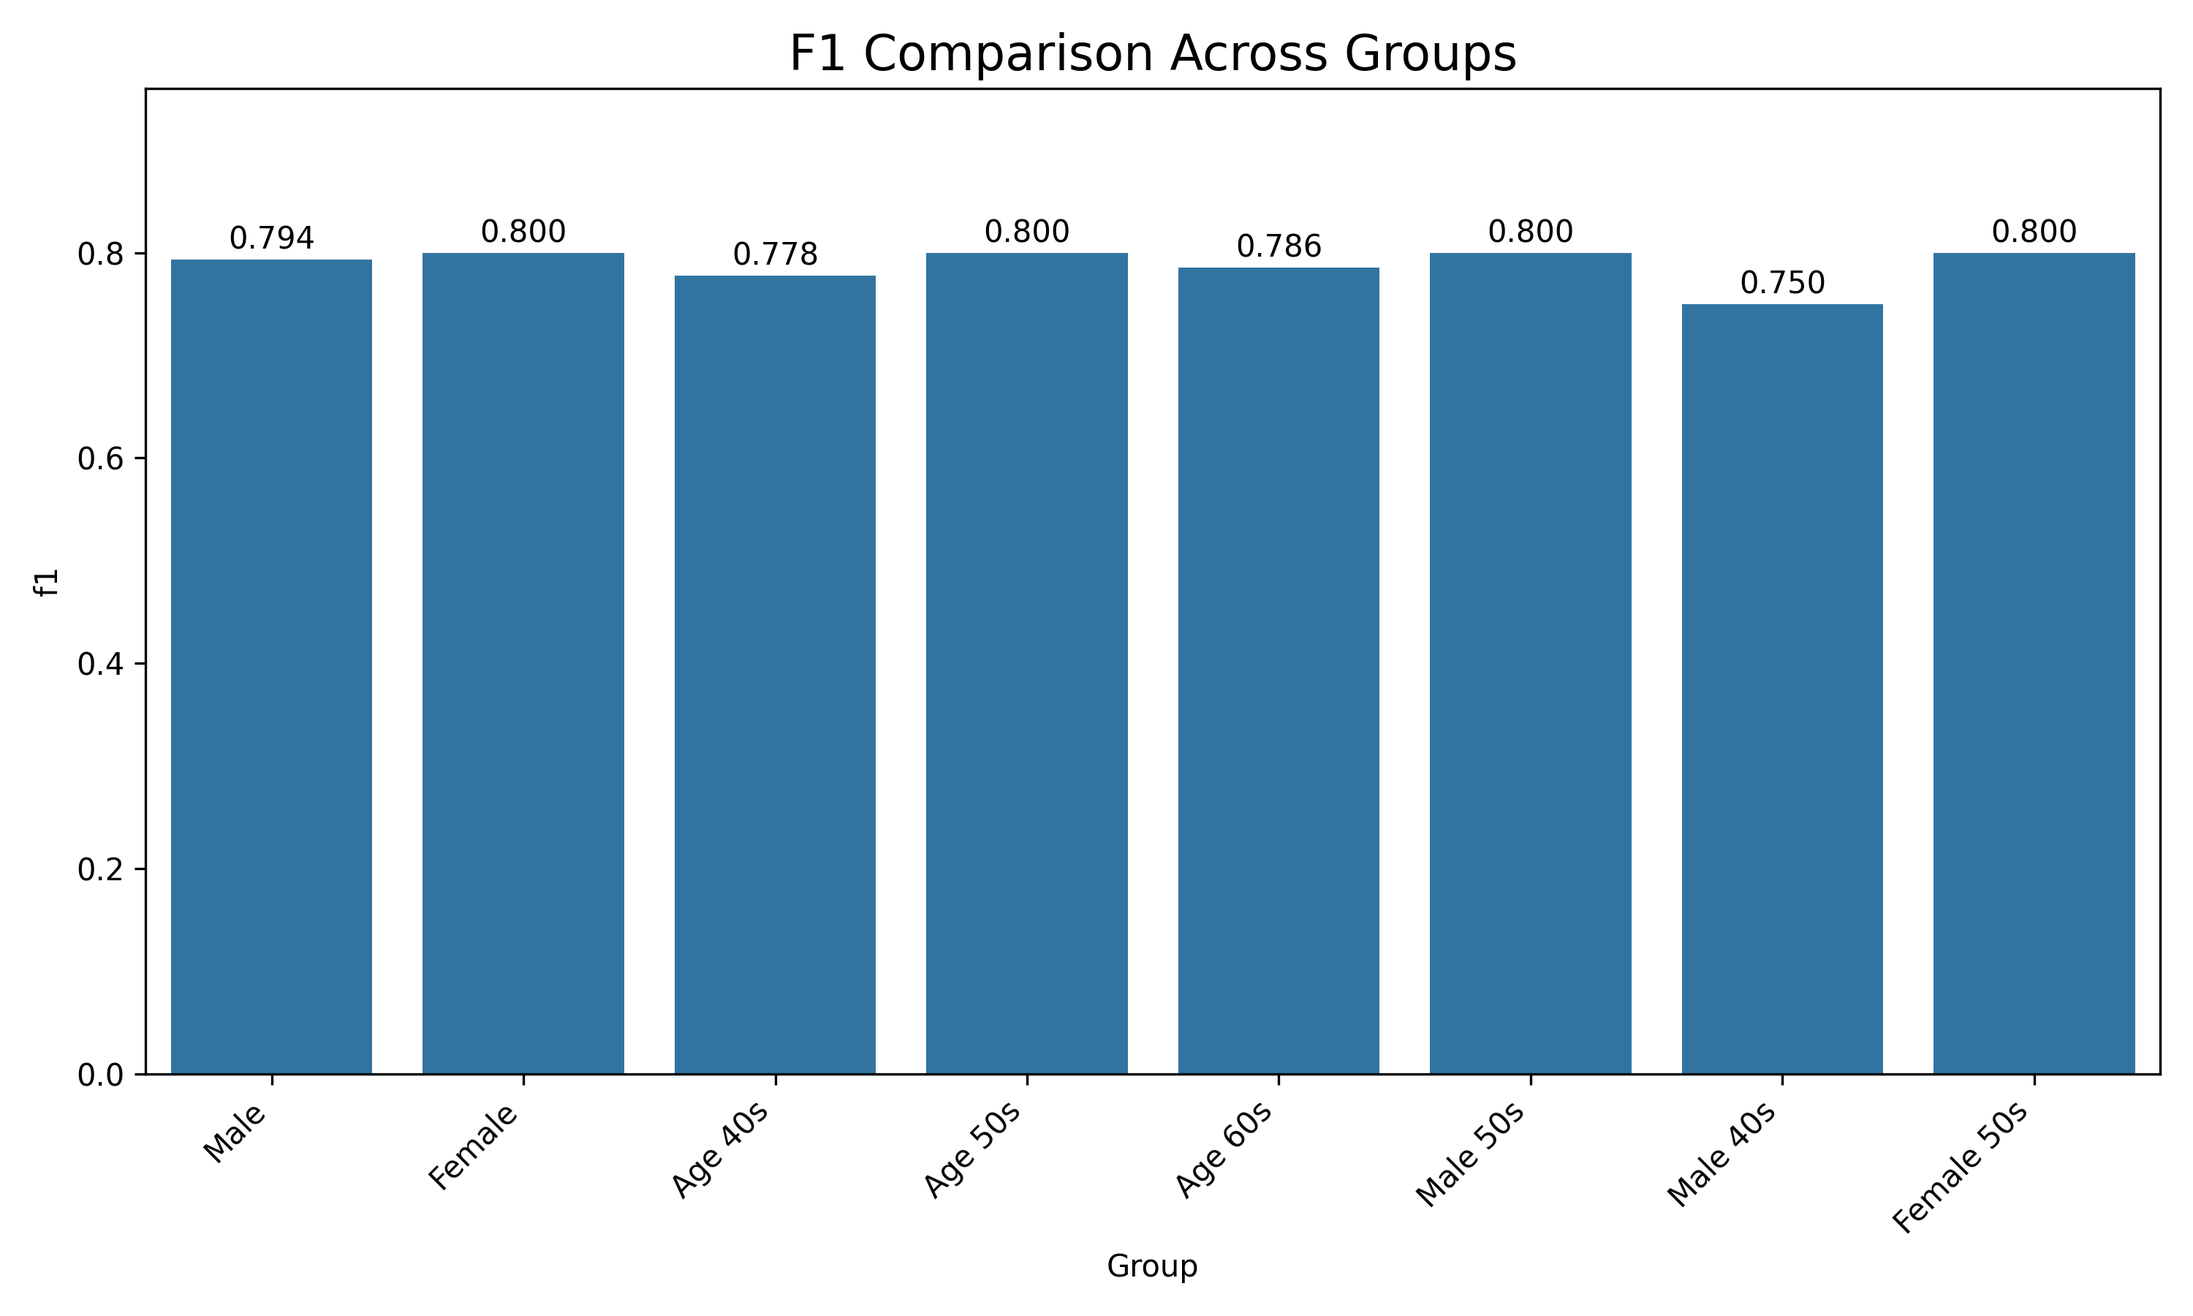
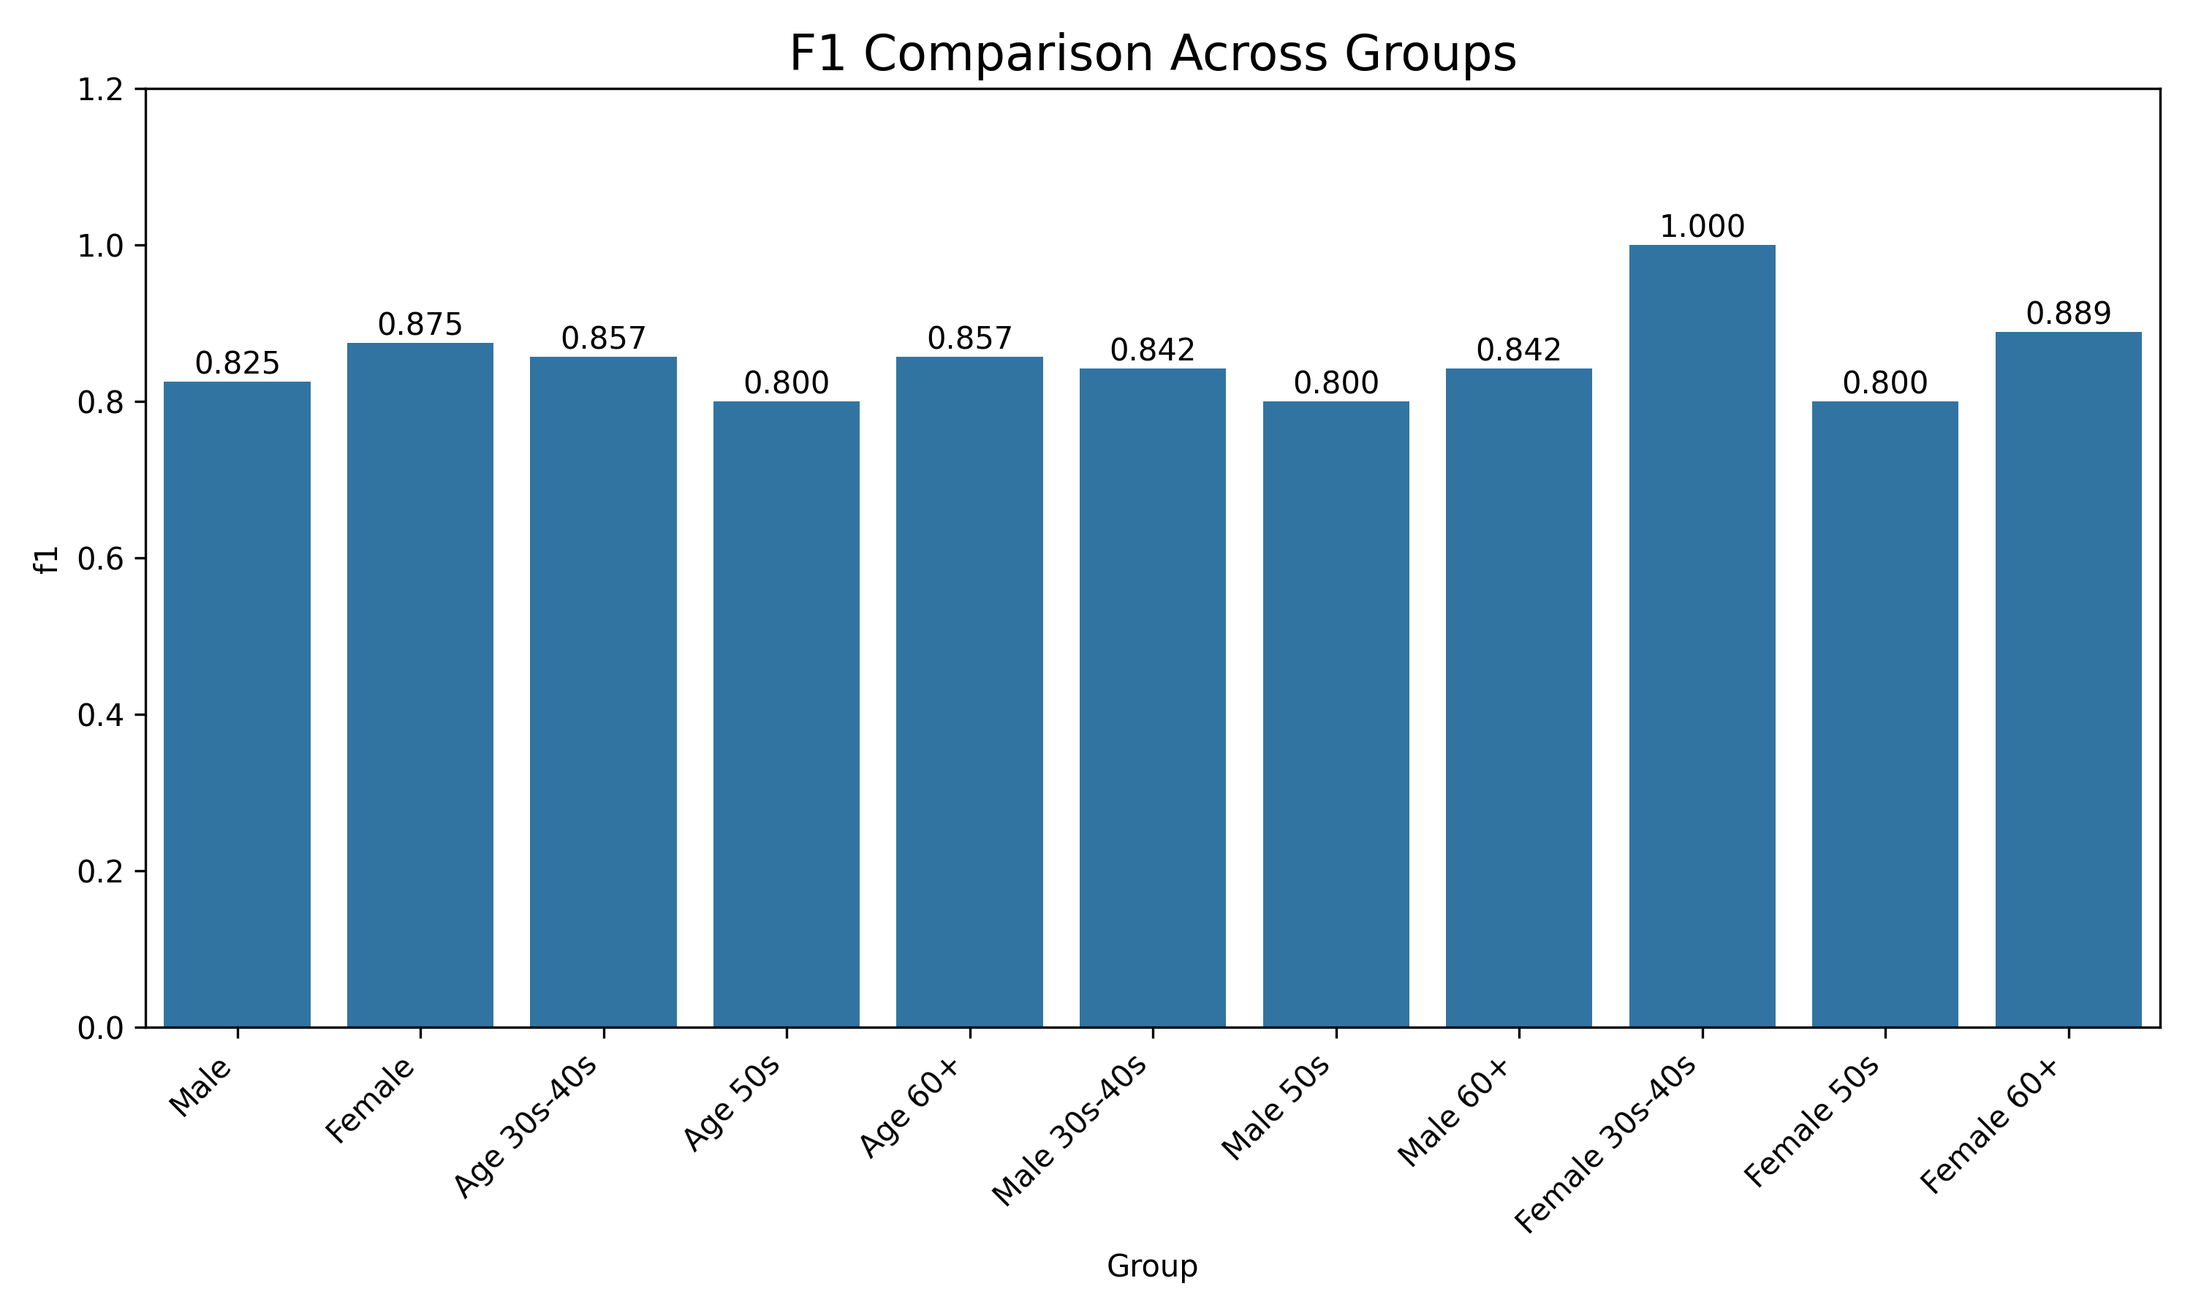
Add cross validation and change the age bins

diff --git a/part2/mitigation1.py b/part2/mitigation1.py
@@ -1,3 +1,4 @@
+# update2 with cv and metri for overfitting
 import pandas as pd
 import matplotlib.pyplot as plt
 import seaborn as sns
@@ -7,9 +8,6 @@ import numpy as np
 import matplotlib.pyplot as plt
 import seaborn as sns
 import matplotlib as mpl
-
-from sklearn.model_selection import train_test_split, cross_val_score, KFold, StratifiedKFold
-from sklearn.metrics import accuracy_score, precision_score, recall_score, f1_score, roc_auc_score, make_scorer
 
 df = pd.read_csv('./dataset/heart_disease_uci.csv')
 
@@ -60,8 +58,8 @@ print("\nNumerical features:", numerical_features)
 print("Categorical features:", categorical_features)
 
 # Set up the age groups
-df['Age Group'] = pd.cut(df['Age'], bins=[29, 50, 60, 100], 
-                        labels=["30s-40s", "50s", "60+"])
+df['Age Group'] = pd.cut(df['Age'], bins=[29, 40, 50, 60, 70, 100], 
+                        labels=["30s", "40s", "50s", "60s", "70+"])
 
 # Create gender-age intersectional groups
 df['Gender_Age_Group'] = df['Sex'].astype(str) + "_" + df['Age Group'].astype(str)
@@ -76,8 +74,58 @@ print(df['Age Group'].value_counts())
 print("\nIntersectional group distribution:")
 print(df['Gender_Age_Group'].value_counts())
 
+# Create age groups and intersectional groups
+df['Age Group'] = pd.cut(df['Age'], bins=[29, 40, 50, 60, 70, 100], 
+                        labels=["30s", "40s", "50s", "60s", "70+"])
+df['Gender_Age_Group'] = df['Sex'].astype(str) + "_" + df['Age Group'].astype(str)
+
+# Print the counts to see what we're working with
+print("\nGender distribution:")
+print(df['Sex'].value_counts())
+
+print("\nAge group distribution:")
+print(df['Age Group'].value_counts())
+
+print("\nIntersectional group distribution:")
+print(df['Gender_Age_Group'].value_counts())
+
 from sklearn.linear_model import LogisticRegression
 from sklearn.preprocessing import StandardScaler
+from sklearn.utils import resample
+
+def bootstrap_metric(y_true, y_pred, metric_func, n_iterations=1000):
+    """Calculate 95% confidence intervals for a metric using bootstrapping"""
+    # Handle cases with very small sample sizes
+    if len(y_true) < 10:
+        return None, None  # Not enough data for reliable bootstrap
+    
+    scores = []
+    for i in range(n_iterations):
+        # Resample with replacement
+        indices = resample(range(len(y_true)), n_samples=len(y_true))
+        
+        # Extract bootstrapped samples
+        if hasattr(y_true, 'iloc'):  # If pandas Series
+            y_true_bootstrap = y_true.iloc[indices]
+        else:  # If numpy array
+            y_true_bootstrap = [y_true[i] for i in indices]
+            
+        y_pred_bootstrap = [y_pred[i] for i in indices]
+        
+        # Calculate metric, handling potential errors
+        try:
+            score = metric_func(y_true_bootstrap, y_pred_bootstrap)
+            scores.append(score)
+        except:
+            continue
+    
+    if len(scores) < 100:  # Need enough successful iterations
+        return None, None
+        
+    # Calculate 95% confidence interval
+    lower = np.percentile(scores, 2.5)
+    upper = np.percentile(scores, 97.5)
+    return lower, upper
 
 def analyze_coefficients_for_subgroup(df, subgroup_name, subgroup_condition):
     """
@@ -139,21 +187,28 @@ female_coeffs = analyze_coefficients_for_subgroup(df, "Female", female_condition
 # Analyze by age groups
 print("\n===== Age-based Coefficient Analysis =====")
 age_coeffs = {}
-for age_group in ["30s-40s", "50s", "60+"]:  # Focus on groups with more samples
+for age_group in ["40s", "50s", "60s"]:  # Focus on groups with more samples
     age_coeffs[age_group] = analyze_coefficients_for_subgroup(
         df, f"Age {age_group}", df['Age Group'] == age_group
     )
 
 # Adjust intersectional group definitions based on what we find
-intersectional_groups = [
-    ("Male 30s-40s", (male_condition) & (df['Age Group'] == "30s-40s")),
-    ("Male 50s", (male_condition) & (df['Age Group'] == "50s")),
-    ("Male 60+", (male_condition) & (df['Age Group'] == "60+")),
-    ("Female 30s-40s", (female_condition) & (df['Age Group'] == "30s-40s")),
-    ("Female 50s", (female_condition) & (df['Age Group'] == "50s")),
-    ("Female 60+", (female_condition) & (df['Age Group'] == "60+"))
+# intersectional_groups = [
+#     ("Male 50s", (male_condition) & (df['Age Group'] == "50s")),
+#     ("Male 40s", (male_condition) & (df['Age Group'] == "40s")),
+#     ("Female 50s", (female_condition) & (df['Age Group'] == "50s"))
+# ]
 
+intersectional_groups = [
+    ("Male 50s", (male_condition) & (df['Age Group'] == "50s")),
+    ("Male 40s", (male_condition) & (df['Age Group'] == "40s")),
+    ("Female 50s", (female_condition) & (df['Age Group'] == "50s")),
+    ("Female 40s", (female_condition) & (df['Age Group'] == "40s")),
+    ("Male 60+", (male_condition) & (df['Age Group'].isin(["60s", "70+"]))),  # Male 60+ group
+    ("Female 60+", (female_condition) & (df['Age Group'].isin(["60s", "70+"])))  # Female 60+ group
 ]
+
+
 
 # Verify the group sizes
 for name, condition in intersectional_groups:
@@ -217,7 +272,7 @@ def visualize_coefficient_comparison(group1_name, group1_coeffs, group2_name, gr
     
     # Save the figure
     plt.savefig(f'coefficient_comparison_{group1_name}_{group2_name}.png', dpi=300)
-    # plt.show()
+    plt.show()
     
     return comparison_df
 
@@ -226,7 +281,7 @@ def visualize_coefficient_comparison(group1_name, group1_coeffs, group2_name, gr
 visualize_coefficient_comparison("Male", male_coeffs, "Female", female_coeffs)
 
 # 2. Age comparison (40s vs 60s)
-visualize_coefficient_comparison("Age 40s", age_coeffs["30s-40s"], "Age 60s", age_coeffs["60+"])
+visualize_coefficient_comparison("Age 40s", age_coeffs["40s"], "Age 60s", age_coeffs["60s"])
 
 # 3. Intersectional comparison (Male 50s vs Female 50s)
 visualize_coefficient_comparison("Male 50s", intersect_coeffs["Male 50s"], 
@@ -238,13 +293,6 @@ visualize_coefficient_comparison("Male 50s", intersect_coeffs["Male 50s"],
 # Import necessary libraries for model evaluation
 from sklearn.model_selection import train_test_split
 from sklearn.metrics import accuracy_score, precision_score, recall_score, f1_score, roc_auc_score
-
-# ------------------------------------- SINGLE MODEL WITH CROSS-VALIDATION --------------------------------------------------------------------------------
-
-# Import necessary libraries for model evaluation and cross-validation
-from sklearn.model_selection import train_test_split, cross_val_score, KFold, StratifiedKFold
-from sklearn.metrics import accuracy_score, precision_score, recall_score, f1_score, roc_auc_score, make_scorer
-from sklearn.model_selection import GridSearchCV
 
 # Prepare data for modeling
 X = df.drop(['Diagnosis', 'Age Group', 'Gender_Age_Group'], axis=1)
@@ -259,62 +307,16 @@ scaler = StandardScaler()
 X_train_scaled = scaler.fit_transform(X_train)
 X_test_scaled = scaler.transform(X_test)
 
-# Set up cross-validation
-cv = StratifiedKFold(n_splits=5, shuffle=True, random_state=42)  # Using stratified k-fold to maintain class balance
-
-# Define model
+# Train a logistic regression model on the full training data
+print("\n===== Training Model on Full Dataset =====")
 model = LogisticRegression(C=1.0, solver='liblinear', random_state=42)
-
-# Perform cross-validation and get scores
-print("\n===== Cross-Validation Results =====")
-cv_accuracy = cross_val_score(model, X_train_scaled, y_train, cv=cv, scoring='accuracy')
-cv_precision = cross_val_score(model, X_train_scaled, y_train, cv=cv, scoring='precision')
-cv_recall = cross_val_score(model, X_train_scaled, y_train, cv=cv, scoring='recall')
-cv_f1 = cross_val_score(model, X_train_scaled, y_train, cv=cv, scoring='f1')
-cv_roc_auc = cross_val_score(model, X_train_scaled, y_train, cv=cv, scoring='roc_auc')
-
-print(f"Cross-validated Accuracy: {cv_accuracy.mean():.4f} (±{cv_accuracy.std():.4f})")
-print(f"Cross-validated Precision: {cv_precision.mean():.4f} (±{cv_precision.std():.4f})")
-print(f"Cross-validated Recall: {cv_recall.mean():.4f} (±{cv_recall.std():.4f})")
-print(f"Cross-validated F1 Score: {cv_f1.mean():.4f} (±{cv_f1.std():.4f})")
-print(f"Cross-validated ROC AUC: {cv_roc_auc.mean():.4f} (±{cv_roc_auc.std():.4f})")
-
-# Define parameter grid to search
-param_grid = {
-    'C': [0.01, 0.1, 1.0, 5.0, 10.0],
-    'penalty': ['l1', 'l2'],
-    'solver': ['liblinear']  # liblinear supports both l1 and l2
-}
-
-# Set up grid search with cross-validation
-grid_search = GridSearchCV(
-    LogisticRegression(random_state=42),
-    param_grid,
-    cv=cv,
-    scoring='roc_auc',  # You can change this to 'accuracy', 'f1', etc.
-    n_jobs=-1  # Use all available cores
-)
-
-# Fit grid search
-print("\n===== Performing Hyperparameter Tuning with Cross-Validation =====")
-grid_search.fit(X_train_scaled, y_train)
-
-# Get best parameters and score
-print(f"Best parameters: {grid_search.best_params_}")
-print(f"Best cross-validation score: {grid_search.best_score_:.4f}")
-
-# Use the best model for final evaluation
-model = grid_search.best_estimator_
-
-# Train the final model on the full training data
-print("\n===== Training Final Model on Full Training Dataset =====")
 model.fit(X_train_scaled, y_train)
 
-# Evaluate overall model performance on the test set
+# Evaluate overall model performance
 y_pred = model.predict(X_test_scaled)
 y_prob = model.predict_proba(X_test_scaled)[:, 1]  # Probability of positive class
 
-print("\nFinal Model Performance on Test Set:")
+print("\nOverall Model Performance:")
 print(f"Accuracy: {accuracy_score(y_test, y_pred):.4f}")
 print(f"Precision: {precision_score(y_test, y_pred):.4f}")
 print(f"Recall: {recall_score(y_test, y_pred):.4f}")
@@ -322,10 +324,96 @@ print(f"F1 Score: {f1_score(y_test, y_pred):.4f}")
 print(f"ROC AUC: {roc_auc_score(y_test, y_prob):.4f}")
 
 # Function to evaluate model performance on a specific subgroup
+# def evaluate_subgroup_performance(subgroup_name, subgroup_condition):
+#     """Evaluate model performance on a specific demographic subgroup"""
+#     # Get indices of test set samples in this subgroup
+#     subgroup_indices = X_test[subgroup_condition].index
+    
+#     if len(subgroup_indices) < 10:
+#         print(f"Skipping {subgroup_name} due to insufficient test samples")
+#         return None
+    
+#     # Get predictions for this subgroup
+#     X_sub_test = X_test.loc[subgroup_indices]
+#     y_sub_test = y_test.loc[subgroup_indices]
+#     X_sub_test_scaled = scaler.transform(X_sub_test)
+    
+#     y_sub_pred = model.predict(X_sub_test_scaled)
+#     y_sub_prob = model.predict_proba(X_sub_test_scaled)[:, 1]
+    
+#     # Calculate performance metrics
+#     metrics = {
+#         'subgroup': subgroup_name,
+#         'size': len(subgroup_indices),
+#         'accuracy': accuracy_score(y_sub_test, y_sub_pred),
+#         'precision': precision_score(y_sub_test, y_sub_pred, zero_division=0),
+#         'recall': recall_score(y_sub_test, y_sub_pred, zero_division=0),
+#         'f1': f1_score(y_sub_test, y_sub_pred, zero_division=0)
+#     }
+    
+#     # Add ROC AUC if both classes are present
+#     if len(np.unique(y_sub_test)) > 1:
+#         metrics['roc_auc'] = roc_auc_score(y_sub_test, y_sub_prob)
+    
+#     print(f"\nPerformance for {subgroup_name} (n={metrics['size']}):")
+#     print(f"Accuracy: {metrics['accuracy']:.4f}")
+#     print(f"Precision: {metrics['precision']:.4f}")
+#     print(f"Recall: {metrics['recall']:.4f}")
+#     print(f"F1 Score: {metrics['f1']:.4f}")
+#     if 'roc_auc' in metrics:
+#         print(f"ROC AUC: {metrics['roc_auc']:.4f}")
+    
+#     return metrics
+
+# def evaluate_subgroup_performance(subgroup_name, subgroup_condition):
+#     """Evaluate model performance on a specific demographic subgroup"""
+#     # Get indices of test set samples in this subgroup
+#     subgroup_indices = X_test[subgroup_condition].index
+    
+#     print(f"Subgroup {subgroup_name} size: {len(subgroup_indices)}")  # Debug print for size
+    
+#     if len(subgroup_indices) < 10:
+#         print(f"Skipping {subgroup_name} due to insufficient test samples")
+#         return None
+    
+#     # Get predictions for this subgroup
+#     X_sub_test = X_test.loc[subgroup_indices]
+#     y_sub_test = y_test.loc[subgroup_indices]
+#     X_sub_test_scaled = scaler.transform(X_sub_test)
+    
+#     y_sub_pred = model.predict(X_sub_test_scaled)
+#     y_sub_prob = model.predict_proba(X_sub_test_scaled)[:, 1]
+    
+#     # Calculate performance metrics
+#     metrics = {
+#         'subgroup': subgroup_name,
+#         'size': len(subgroup_indices),
+#         'accuracy': accuracy_score(y_sub_test, y_sub_pred),
+#         'precision': precision_score(y_sub_test, y_sub_pred, zero_division=0),
+#         'recall': recall_score(y_sub_test, y_sub_pred, zero_division=0),
+#         'f1': f1_score(y_sub_test, y_sub_pred, zero_division=0)
+#     }
+    
+#     # Add ROC AUC if both classes are present
+#     if len(np.unique(y_sub_test)) > 1:
+#         metrics['roc_auc'] = roc_auc_score(y_sub_test, y_sub_prob)
+    
+#     print(f"\nPerformance for {subgroup_name} (n={metrics['size']}):")
+#     print(f"Accuracy: {metrics['accuracy']:.4f}")
+#     print(f"Precision: {metrics['precision']:.4f}")
+#     print(f"Recall: {metrics['recall']:.4f}")
+#     print(f"F1 Score: {metrics['f1']:.4f}")
+#     if 'roc_auc' in metrics:
+#         print(f"ROC AUC: {metrics['roc_auc']:.4f}")
+    
+#     return metrics
+
 def evaluate_subgroup_performance(subgroup_name, subgroup_condition):
-    """Evaluate model performance on a specific demographic subgroup"""
+    """Evaluate model performance with bootstrap confidence intervals"""
     # Get indices of test set samples in this subgroup
     subgroup_indices = X_test[subgroup_condition].index
+    
+    print(f"Subgroup {subgroup_name} size: {len(subgroup_indices)}")
     
     if len(subgroup_indices) < 10:
         print(f"Skipping {subgroup_name} due to insufficient test samples")
@@ -353,15 +441,31 @@ def evaluate_subgroup_performance(subgroup_name, subgroup_condition):
     if len(np.unique(y_sub_test)) > 1:
         metrics['roc_auc'] = roc_auc_score(y_sub_test, y_sub_prob)
     
+    # Calculate confidence intervals for each metric
+    ci_metrics = {}
+    for metric_name, metric_func in [
+        ('accuracy', accuracy_score),
+        ('precision', lambda y_t, y_p: precision_score(y_t, y_p, zero_division=0)),
+        ('recall', lambda y_t, y_p: recall_score(y_t, y_p, zero_division=0)),
+        ('f1', lambda y_t, y_p: f1_score(y_t, y_p, zero_division=0))
+    ]:
+        lower, upper = bootstrap_metric(y_sub_test, y_sub_pred, metric_func)
+        ci_metrics[f'{metric_name}_ci'] = (lower, upper)
+    
+    # Print results with confidence intervals
     print(f"\nPerformance for {subgroup_name} (n={metrics['size']}):")
-    print(f"Accuracy: {metrics['accuracy']:.4f}")
-    print(f"Precision: {metrics['precision']:.4f}")
-    print(f"Recall: {metrics['recall']:.4f}")
-    print(f"F1 Score: {metrics['f1']:.4f}")
+    print(f"Accuracy: {metrics['accuracy']:.4f}, 95% CI: {ci_metrics['accuracy_ci']}")
+    print(f"Precision: {metrics['precision']:.4f}, 95% CI: {ci_metrics['precision_ci']}")
+    print(f"Recall: {metrics['recall']:.4f}, 95% CI: {ci_metrics['recall_ci']}")
+    print(f"F1 Score: {metrics['f1']:.4f}, 95% CI: {ci_metrics['f1_ci']}")
+    
     if 'roc_auc' in metrics:
         print(f"ROC AUC: {metrics['roc_auc']:.4f}")
     
+    # Store confidence intervals in metrics dictionary
+    metrics.update(ci_metrics)
     return metrics
+
 
 # Evaluate performance across gender groups
 print("\n===== Model Performance by Gender =====")
@@ -371,7 +475,7 @@ female_metrics = evaluate_subgroup_performance("Female", female_condition)
 # Evaluate performance across age groups
 print("\n===== Model Performance by Age Group =====")
 age_metrics = {}
-for age_group in ["30s-40s", "50s", "60+"]:
+for age_group in ["40s", "50s", "60s"]:
     age_condition = df['Age Group'] == age_group
     age_metrics[age_group] = evaluate_subgroup_performance(f"Age {age_group}", age_condition)
 

diff --git a/mitigation5.py b/mitigation5.py
@@ -1,4 +1,4 @@
-# mitigation_approach4.py - Ensemble with Threshold Calibration
+# mitigation_approach5.py - Ensemble with Threshold Calibration and smote 
 
 import pandas as pd
 import numpy as np
@@ -244,7 +244,7 @@ def create_demographic_models(df, X, y, intersectional_groups):
         }
     
     return demographic_models, X_train, X_test, y_train, y_test, train_demographics, test_demographics
-    
+
 # def create_demographic_models(df, X, y, intersectional_groups):
 #     """Train optimized models for each demographic group."""
 #     demographic_models = {}
